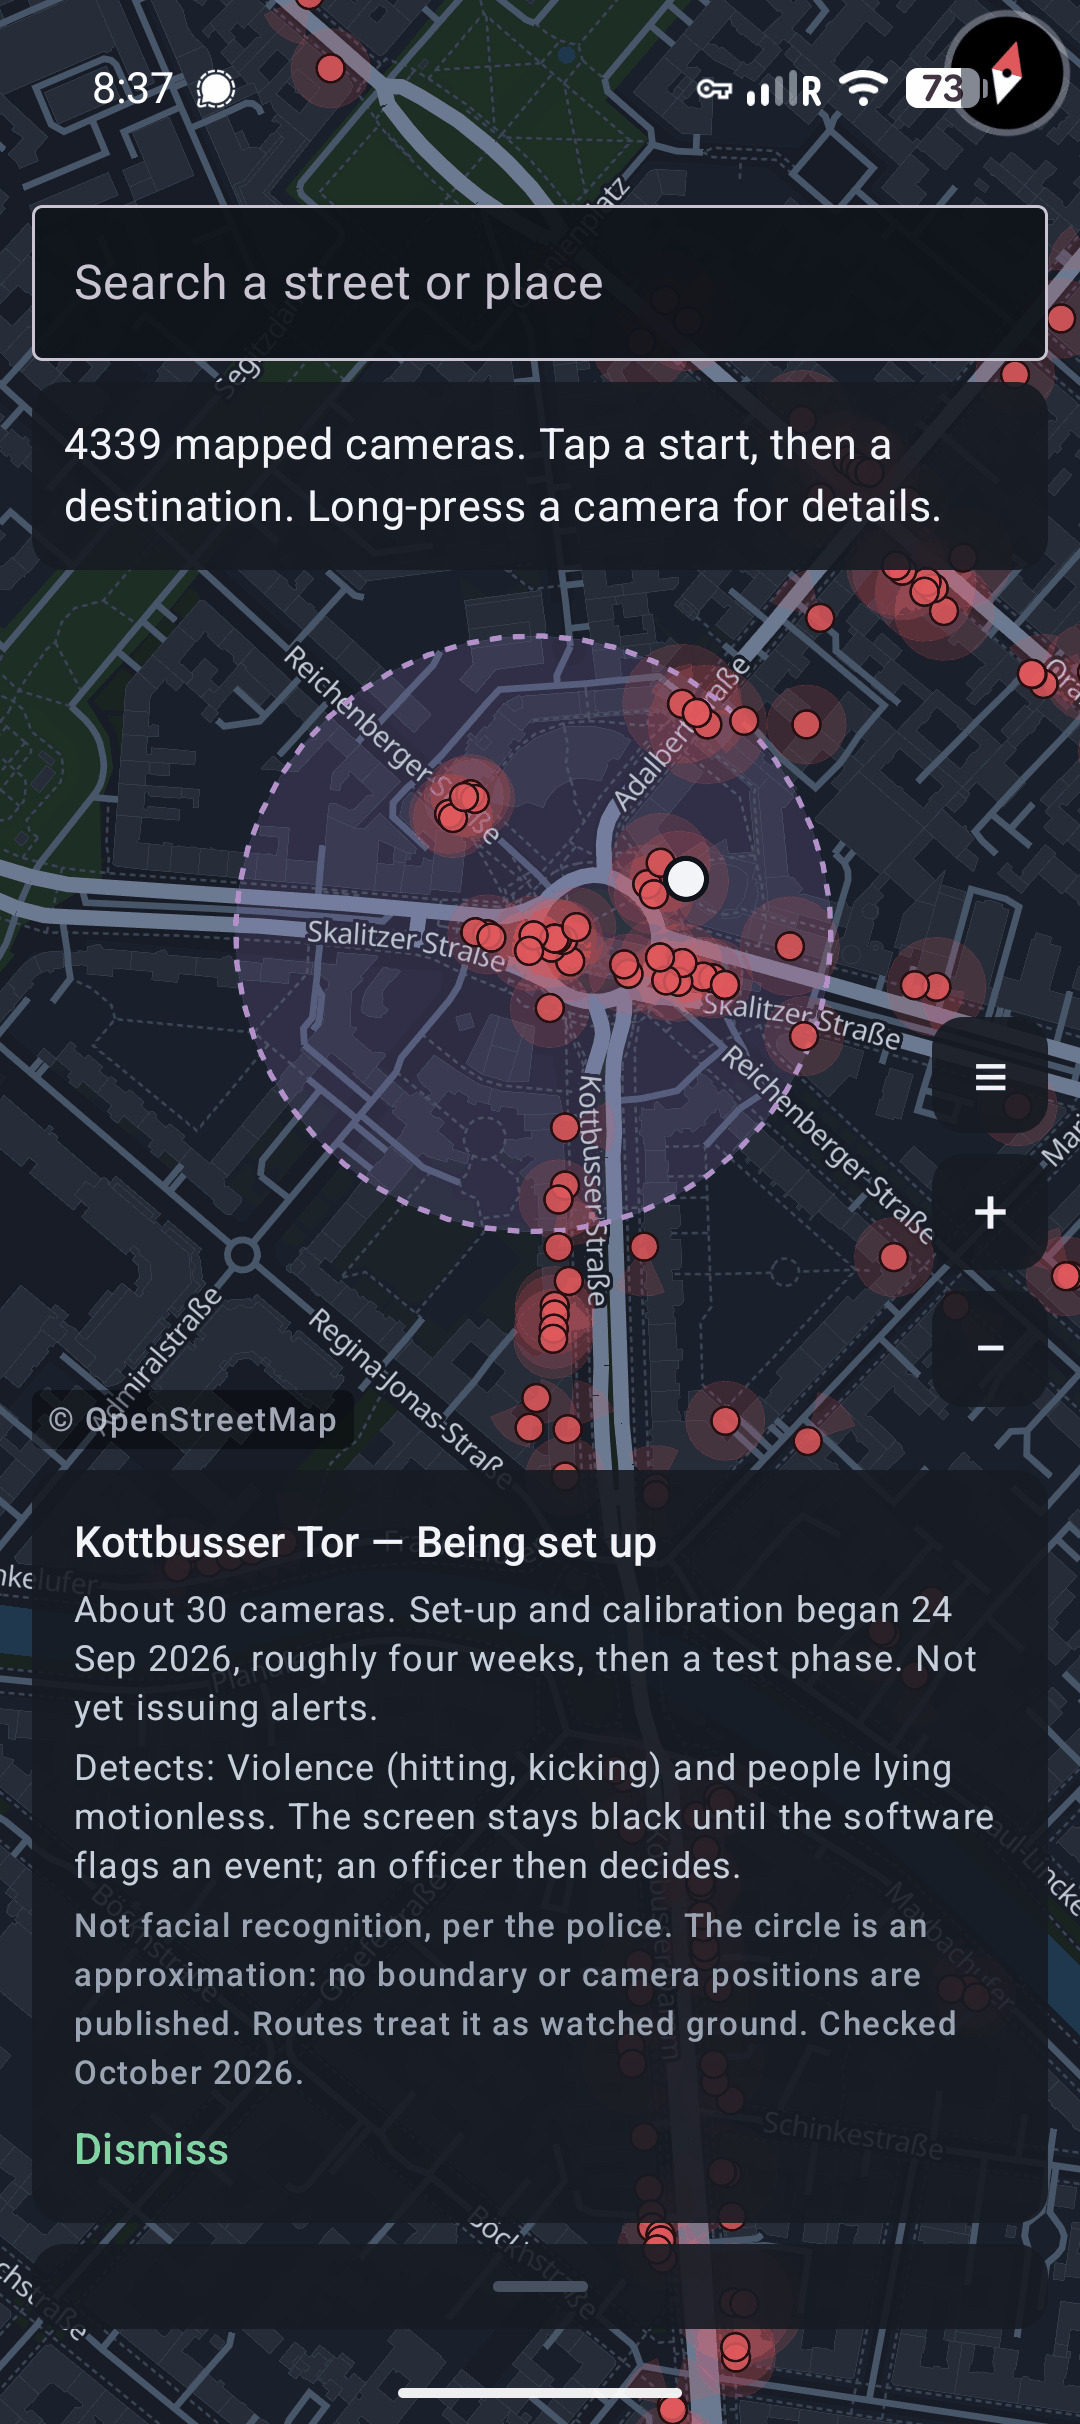
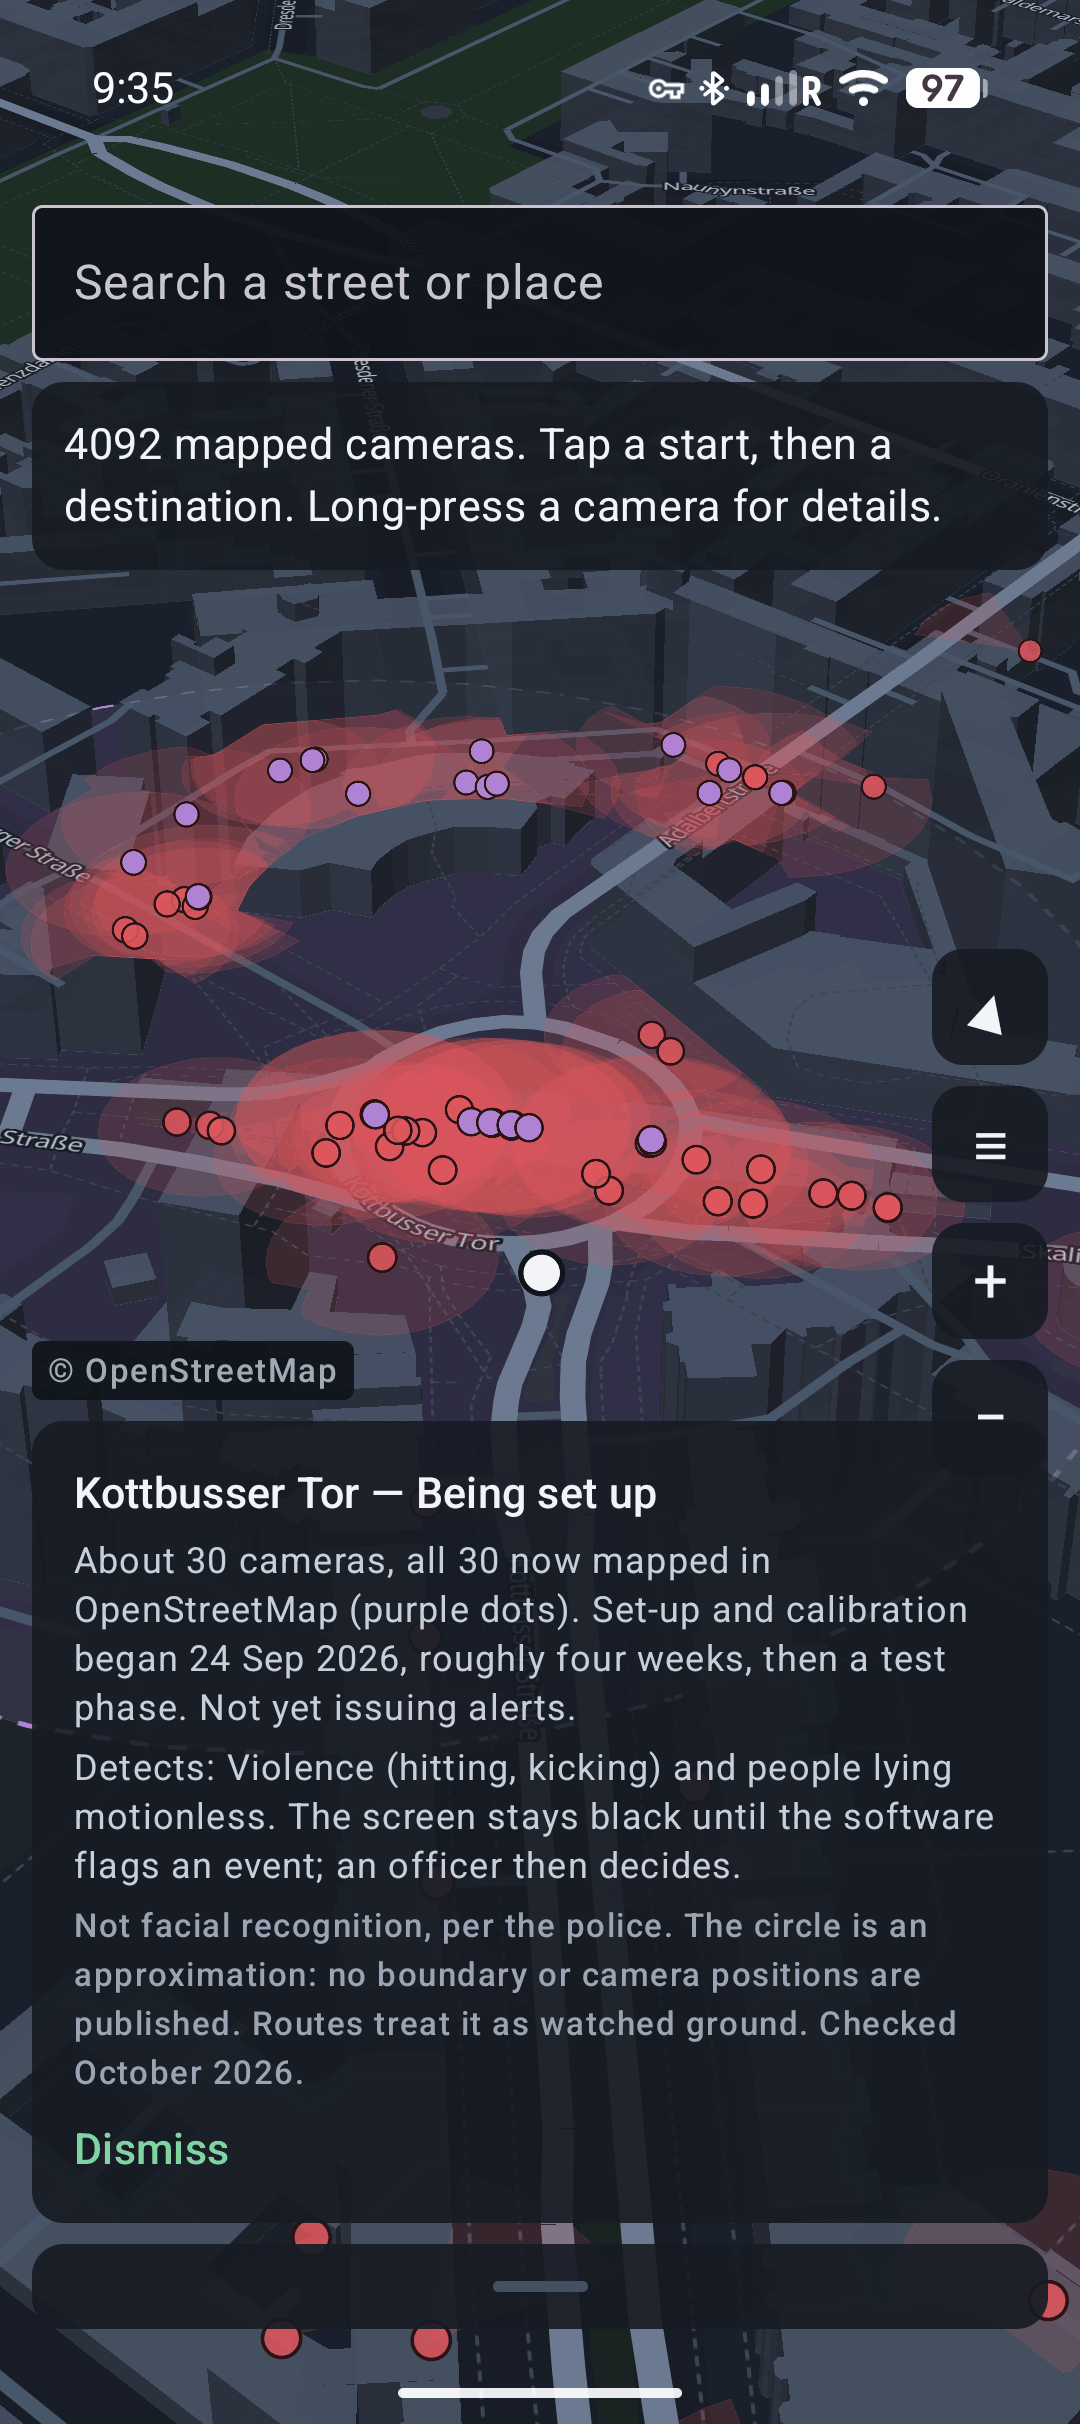
Update the Kottbusser Tor README screenshot
The new capture shows all 30 police AI cameras mapped as purple dots
with their coverage, and the zone card's current status.

Claude-Session: https://claude.ai/code/session_011d3LRZS6rHLfTgbvNcgUMY

diff --git a/README.md b/README.md
@@ -20,7 +20,7 @@ the permission to reach the internet.
 
 <p align="center">
   <img src="docs/screenshots/01-route.png" width="30%" alt="A walking route at High avoidance: 3356 m, 0% under watch, steering around clusters of mapped cameras">
-  <img src="docs/screenshots/02-ai-zone-kottbusser-tor.png" width="30%" alt="Kottbusser Tor AI-video zone: a dashed violet circle with its status and what it detects">
+  <img src="docs/screenshots/02-ai-zone-kottbusser-tor.png" width="30%" alt="Kottbusser Tor AI-video zone: its 30 police AI cameras mapped as purple dots with their coverage, and a card with the zone's status and what it detects">
   <img src="docs/screenshots/03-ai-zone-goerlitzer-park.png" width="30%" alt="Görlitzer Park planned AI-video zone, shown as an approximate circle">
 </p>
 <p align="center"><sub>A camera-free route at <b>High</b> avoidance &middot; police AI-video zones (violet circles), long-press for details</sub></p>
